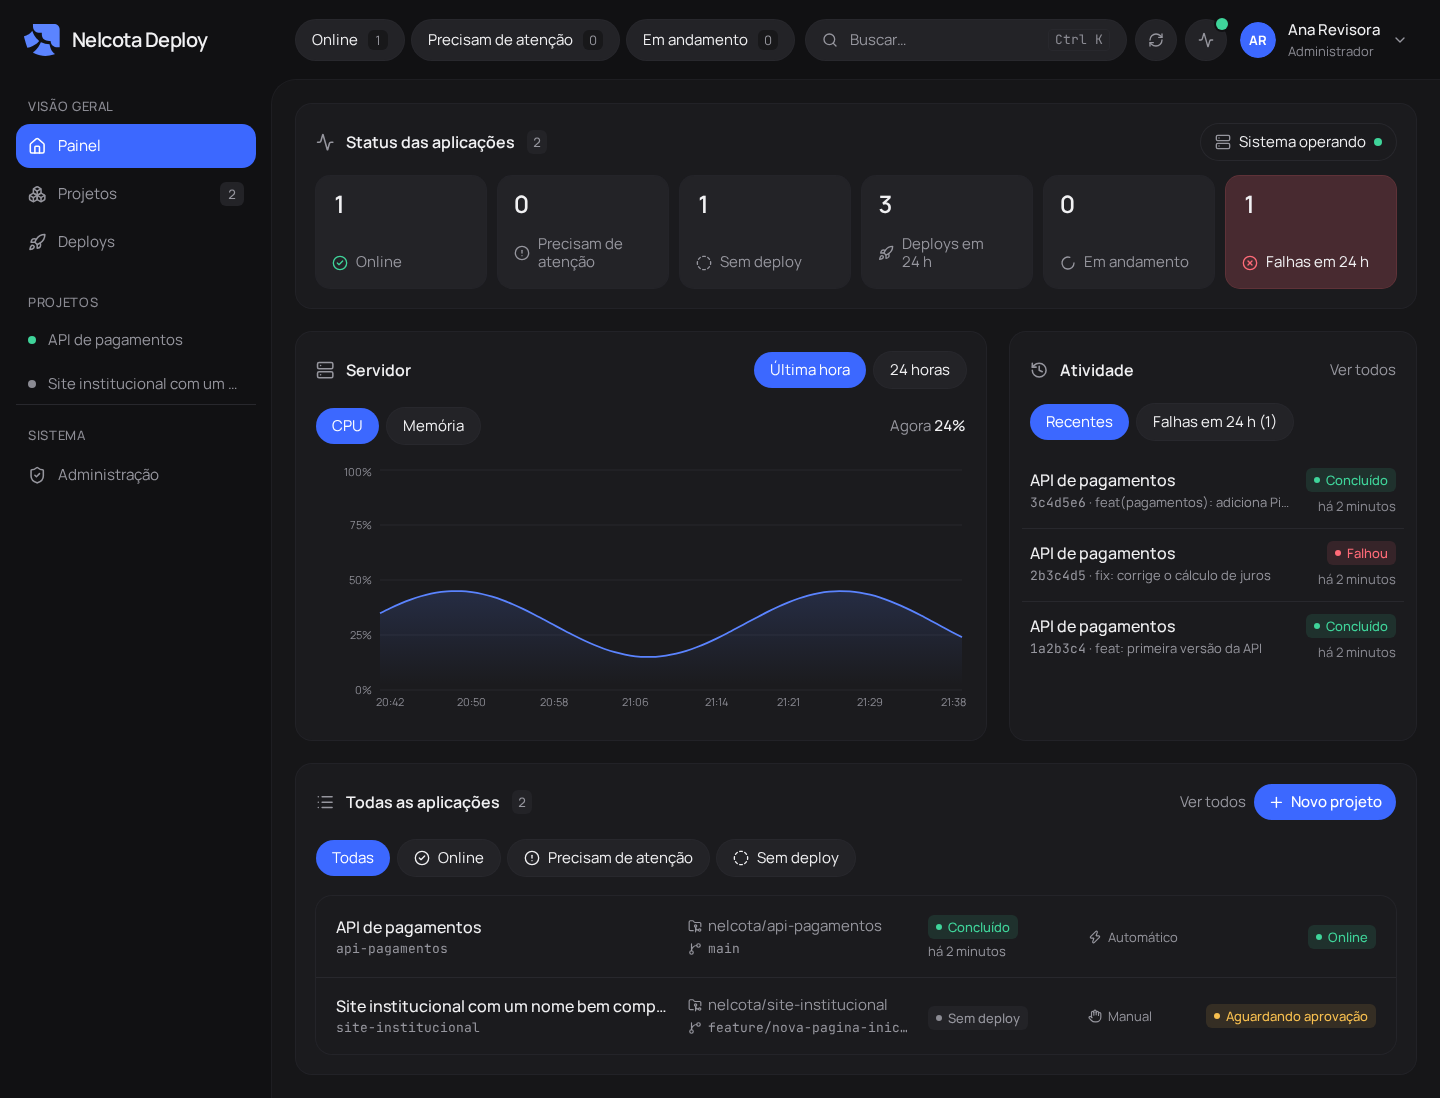
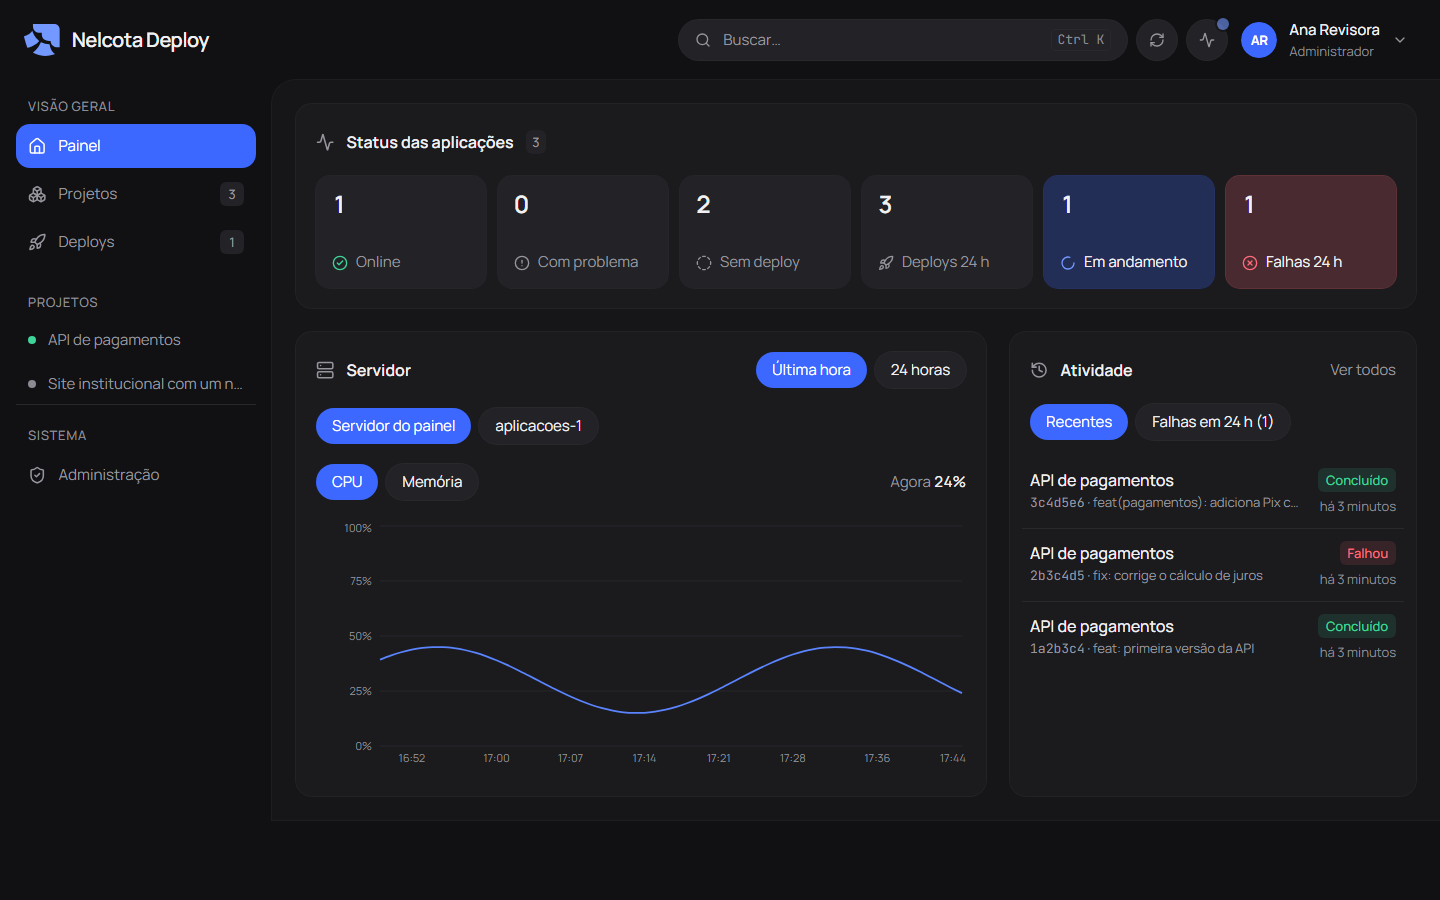
docs(readme): cover recent features and refresh the screenshots
The README predated compose projects, replicas, staging, automatic
rollback, uptime checks, the console, MySQL and MongoDB, and per-project
teams. It now lists them, with new screenshots of the dashboard, project
overview, logs, domains with uptime and the console.

A check of every claim against the code also fixed older mistakes: the
production steps set a PUBLIC_URL that Compose overrides and appended a
second DOCKER_GID line, Traefik reads the Docker socket too, and the
zero-downtime switch, previews, variable changes and disk alerts were
described more broadly than they work.

diff --git a/README.md b/README.md
@@ -8,7 +8,7 @@
 <h3>Nelcota Deploy</h3>
 
 <p>Self-hosted deploy panel for Linux VPSs with Docker: one server or many over SSH.<br />
-Push to GitHub, get a running container with logs, metrics and HTTPS.</p>
+Push to GitHub, get a running container with logs, metrics, uptime checks and HTTPS.</p>
 
 <p>
   <a href="https://github.com/Nelcota/NelcotaDeploy/actions/workflows/check.yml"><img alt="Check" src="https://github.com/Nelcota/NelcotaDeploy/actions/workflows/check.yml/badge.svg" /></a>
@@ -17,67 +17,77 @@ Push to GitHub, get a running container with logs, metrics and HTTPS.</p>
   <img alt="SQLite" src="https://img.shields.io/badge/database-SQLite-003b57?logo=sqlite&logoColor=white" />
 </p>
 
-<img src="docs/images/dashboard.png" alt="Nelcota Deploy dashboard" width="900" />
+<img src="docs/images/dashboard.png" alt="Nelcota Deploy dashboard with application status, server usage and recent activity" width="900" />
 
 </div>
 
 ## Why
 
-In the spirit of Railway, Coolify and Dokploy, but small and shaped for one
-organization. One Bun process serves the panel, another runs the builds; both share a SQLite
+Like Railway, Coolify and Dokploy, but smaller and built for a single organization. One Bun process serves the panel, another runs the builds; both share a SQLite
 file. No Kubernetes, no external database, no agents to install.
 
 ## Features
 
-| Area          | What it does                                                                                                                                               |
-| ------------- | ---------------------------------------------------------------------------------------------------------------------------------------------------------- |
-| **Deploys**   | Build the exact commit from GitHub, on push or by hand, from a Dockerfile or with Railpack. Zero-downtime switch, rollback and retry.                      |
-| **GitHub**    | One-click GitHub App: pick repositories from a list, clone private ones and get pushes without per-repo webhooks.                                          |
-| **Logs**      | Live build and runtime logs with search, level filter and jump to the first error.                                                                         |
-| **Metrics**   | CPU and memory per container and for the host, with history.                                                                                               |
-| **Config**    | Variables and secrets (AES-256-GCM), applied to the running app as soon as they are saved.                                                                 |
-| **Previews**  | Each pull request to the project's branch gets its own temporary address; forks never run.                                                                 |
-| **Volumes**   | Folders kept between deploys as Docker named volumes, with detach and an explicit delete of the data.                                                      |
-| **Databases** | PostgreSQL and Redis per project, with the URL in a secret variable, and daily encrypted PostgreSQL backups with restore.                                  |
-| **Limits**    | Optional memory and CPU limits per application container.                                                                                                  |
-| **Domains**   | Automatic and custom domains, HTTPS by Let's Encrypt through Traefik, and a live check of each domain's DNS.                                               |
-| **Ops**       | Daily database backups, encrypted off-site copies to any S3 bucket, and Discord or Slack alerts for failed deploys, apps or databases down and full disks. |
-| **Servers**   | Add a VPS with one pasted command; builds and apps run there over a persistent SSH connection, moves keep sites up.                                        |
-| **Tasks**     | Commands that run inside the app container, on demand or on a cron schedule.                                                                               |
-| **Team**      | Admin, developer and viewer roles, two-factor authentication, API tokens, an MCP server for AI clients and an audit log.                                   |
+| Area          | What it does                                                                                                                                                                                                                                                              |
+| ------------- | ------------------------------------------------------------------------------------------------------------------------------------------------------------------------------------------------------------------------------------------------------------------------- |
+| **Deploys**   | Build the exact commit from GitHub, on push or by hand, from a Dockerfile, with Railpack or from a Docker Compose file. Zero-downtime switch (Dockerfile and Railpack), rollback, retry and the deploy status on GitHub. New projects deploy once an admin approves them. |
+| **Rollback**  | When a new version passes its health check but falls into a restart loop in the minutes after the switch, the panel goes back to the previous one by itself and sends an alert.                                                                                           |
+| **Replicas**  | Up to 10 copies of an app behind Traefik's load balancer, all health checked before the switch.                                                                                                                                                                           |
+| **Staging**   | A staging environment per project, with its own address and variables, and promotion of its live commit to production.                                                                                                                                                    |
+| **Previews**  | Optional: up to 5 open pull requests to the project's branch each get a temporary address; forks never run.                                                                                                                                                               |
+| **GitHub**    | One-click GitHub App: pick repositories from a list, clone private ones and get pushes without per-repo webhooks.                                                                                                                                                         |
+| **Logs**      | Live build and runtime logs with search, level filter, jump to the first error, copy and download. Start, stop and restart the app from the panel.                                                                                                                        |
+| **Metrics**   | CPU and memory per container and for the host, with history.                                                                                                                                                                                                              |
+| **Config**    | Variables and secrets (AES-256-GCM), applied on save by restarting the app, or rebuilding it for build-time variables.                                                                                                                                                    |
+| **Volumes**   | Folders kept between deploys as Docker named volumes, which can be detached; their data is deleted only on request.                                                                                                                                                       |
+| **Databases** | PostgreSQL, MySQL, MongoDB and Redis per project, with the URL in a secret variable, and daily encrypted backups with restore (all but Redis).                                                                                                                            |
+| **Limits**    | Optional memory and CPU limits per application container.                                                                                                                                                                                                                 |
+| **Domains**   | Automatic and custom domains, HTTPS by Let's Encrypt through Traefik, and a live check of each domain's DNS.                                                                                                                                                              |
+| **Uptime**    | Every live domain is checked from the outside each minute, with availability and response time history, an alert when it goes down and a warning two weeks before its certificate expires.                                                                                |
+| **Console**   | One-off commands in the live container from the browser, with the output as it runs. Available to anyone allowed to deploy the project, and each command goes to the audit log.                                                                                           |
+| **Tasks**     | Commands that run inside the app container, on demand or on a cron schedule.                                                                                                                                                                                              |
+| **Servers**   | Add a VPS with one pasted command; builds and apps run there over a persistent SSH connection, and moving a project to another server keeps its sites online. Build cache and dangling images are cleaned daily on each one.                                              |
+| **Ops**       | Daily panel backups, encrypted off-site copies to any S3-compatible bucket (S3, R2, B2), and Discord or Slack alerts for failed deploys and backups, automatic rollbacks, apps, databases, domains or servers down and disks over 85% full.                               |
+| **Team**      | Admin, developer and viewer roles; projects visible only to their members, each a manager, developer or viewer there; two-factor authentication, API tokens, an MCP server for AI clients and an audit log.                                                               |
 
 <table>
   <tr>
-    <td><img src="docs/images/deploy.png" alt="Deploy detail with stages and logs" /></td>
-    <td><img src="docs/images/logs.png" alt="Live runtime logs" /></td>
+    <td><img src="docs/images/project.png" alt="Project overview with status, resources and recent deploys" /></td>
+    <td><img src="docs/images/logs.png" alt="Live runtime logs with warnings and errors highlighted" /></td>
+  </tr>
+  <tr>
+    <td><img src="docs/images/domains.png" alt="Domains with uptime history and certificate expiry" /></td>
+    <td><img src="docs/images/console.png" alt="Console with the output of commands run in the container" /></td>
   </tr>
 </table>
 
 ## Quick start
 
-Requires Linux with [Bun](https://bun.sh) 1.4+, git and Docker 23+.
+Requires Linux with [Bun](https://bun.sh) 1.4+, git and Docker 23+ with the buildx and compose
+plugins; Railpack builds also need [Railpack](https://railpack.com) installed.
 
 ```bash
 bun install
 bun run setup    # writes .env with generated secrets
 bun run dev      # panel on http://localhost:3000; the first visit creates the admin
-bun run worker   # in another terminal: builds, tasks, metrics, backups
+bun run worker   # in another terminal: builds, tasks, metrics, uptime checks, backups
 ```
 
 ## Production
 
-Docker Compose starts Traefik, the panel and the worker. Only the worker can reach the Docker socket.
+Docker Compose starts Traefik, the panel and the worker. The panel never touches the Docker
+socket: the worker uses it, and Traefik only reads it.
 
 ```bash
-bun run setup        # then set PUBLIC_URL, PANEL_DOMAIN and ACME_EMAIL in .env
-echo "DOCKER_GID=$(stat -c %g /var/run/docker.sock)" >> .env
-docker compose up -d --build   # then open PUBLIC_URL and create the admin
+bun run setup        # then set PANEL_DOMAIN and ACME_EMAIL in .env
+sed -i "s/^DOCKER_GID=.*/DOCKER_GID=$(stat -c %g /var/run/docker.sock)/" .env
+docker compose up -d --build   # then open https://PANEL_DOMAIN and create the admin
 ```
 
 ## Development
 
 ```bash
-bun run check        # format, lint, types, unused code and tests
+bun run check        # format, lint, types, unused code, package size and tests
 bun run ui:review    # screenshots of every screen plus an accessibility report
 ```
 
